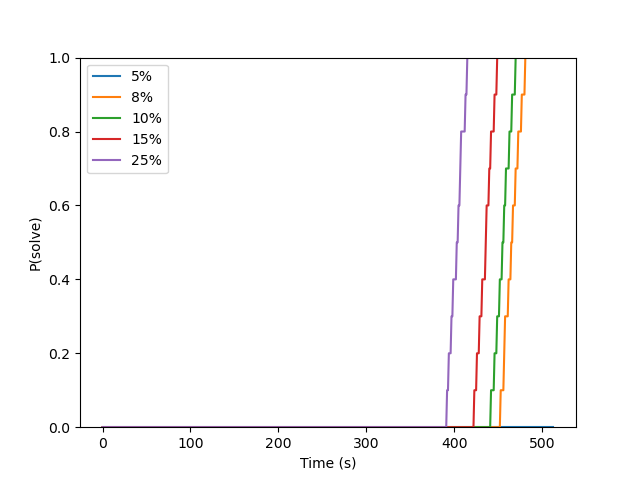
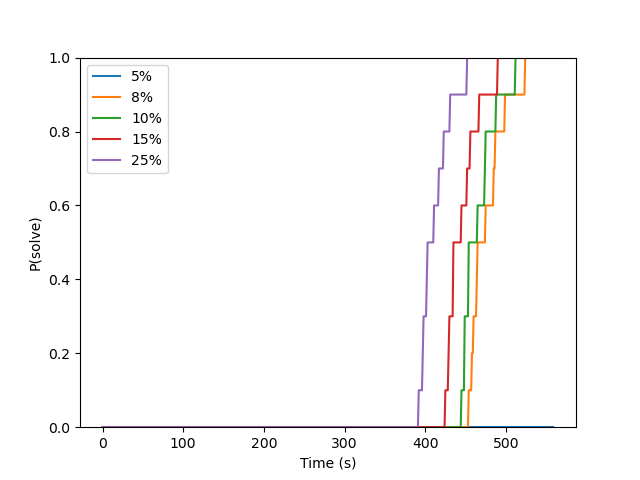
Added plots for sqd and qrtd

diff --git a/plot_curves_LS.py b/plot_curves_LS.py
@@ -80,7 +80,7 @@ def plot_sqd(inst='power',maxtime=600,seeds=[10,20,30,40,50,60,70,80,90,100],met
         target_size = int(q*(100+perc)/100)
         target_sizes[perc] = target_size     
 
-    times = np.round(np.linspace(mt-100,mt,num=5),2)
+    times = np.round(np.linspace(2,mt,num=5),2)
     for case in all_cases:
         for t in times:
             case[t] = case.get(t, case[min(case.keys(), key=lambda k: abs(k-t))])
@@ -108,10 +108,10 @@ def plot_sqd(inst='power',maxtime=600,seeds=[10,20,30,40,50,60,70,80,90,100],met
 
 
 if __name__=="__main__":
-    plot_qrtd(inst="star2",method="LS1")
-    plot_qrtd(inst="star2",method="LS2")
-    plot_sqd(inst="power",method="LS1")
-    plot_sqd(inst="power",method="LS2")
+    plot_qrtd(inst="star2",maxtime=1000,method="LS1")
+    plot_qrtd(inst="star2",maxtime=1000,method="LS2")
+    plot_sqd(inst="power",maxtime=1000,method="LS1")
+    plot_sqd(inst="power",maxtime=1000,method="LS2")
     
 
 
